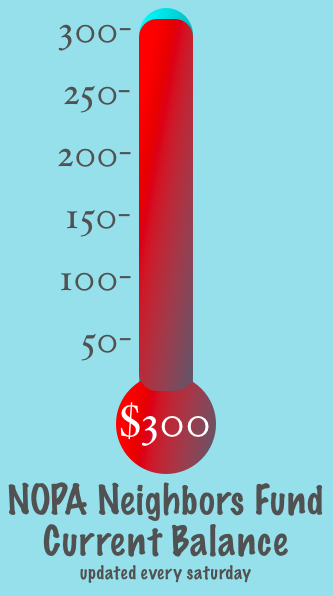
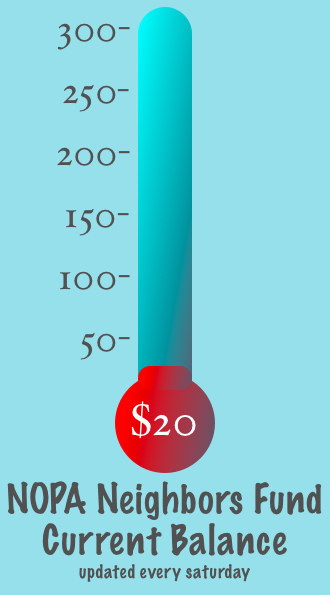
Reset for a new round...
The thermometer is reset, to $20.  And the pop-up contains
the date of the next scheduled clean-up.

diff --git a/htdocs/index.html b/htdocs/index.html
@@ -29,16 +29,13 @@
         <div id="content">
 
         <div id="popover">
-            <div style="text-align:center"><h1>We Did It (Again)!</h1></div>
+            <div style="text-align:center"><h1>Next Clean-Up Is Scheduled</h1></div>
             <p>
-                The NOPA Neighbors Fund has reached the $300 goal once again. Thanks
-                to all the donors for making this happen.  So the next clean-up will
-                happen some time in April.  Further details will be announced in March.
-            </p>
-
-            <p>
-               In the meantime, you can still make a contribution towards a future 
-               clean-up using the form below.
+                The next clean-up is scheduled for Saturday, June 11.
+                You are all invited to participate, or just come out
+                and meet your neighbors.  Meanwhile, the Fund has been
+                reset and you can still make contributions toward a
+                future clean-up.
             </p>
 
             <div style="text-align:right; font-size:10px; color:#D6D6D6"><a id="out">CLOSE</a></div>
